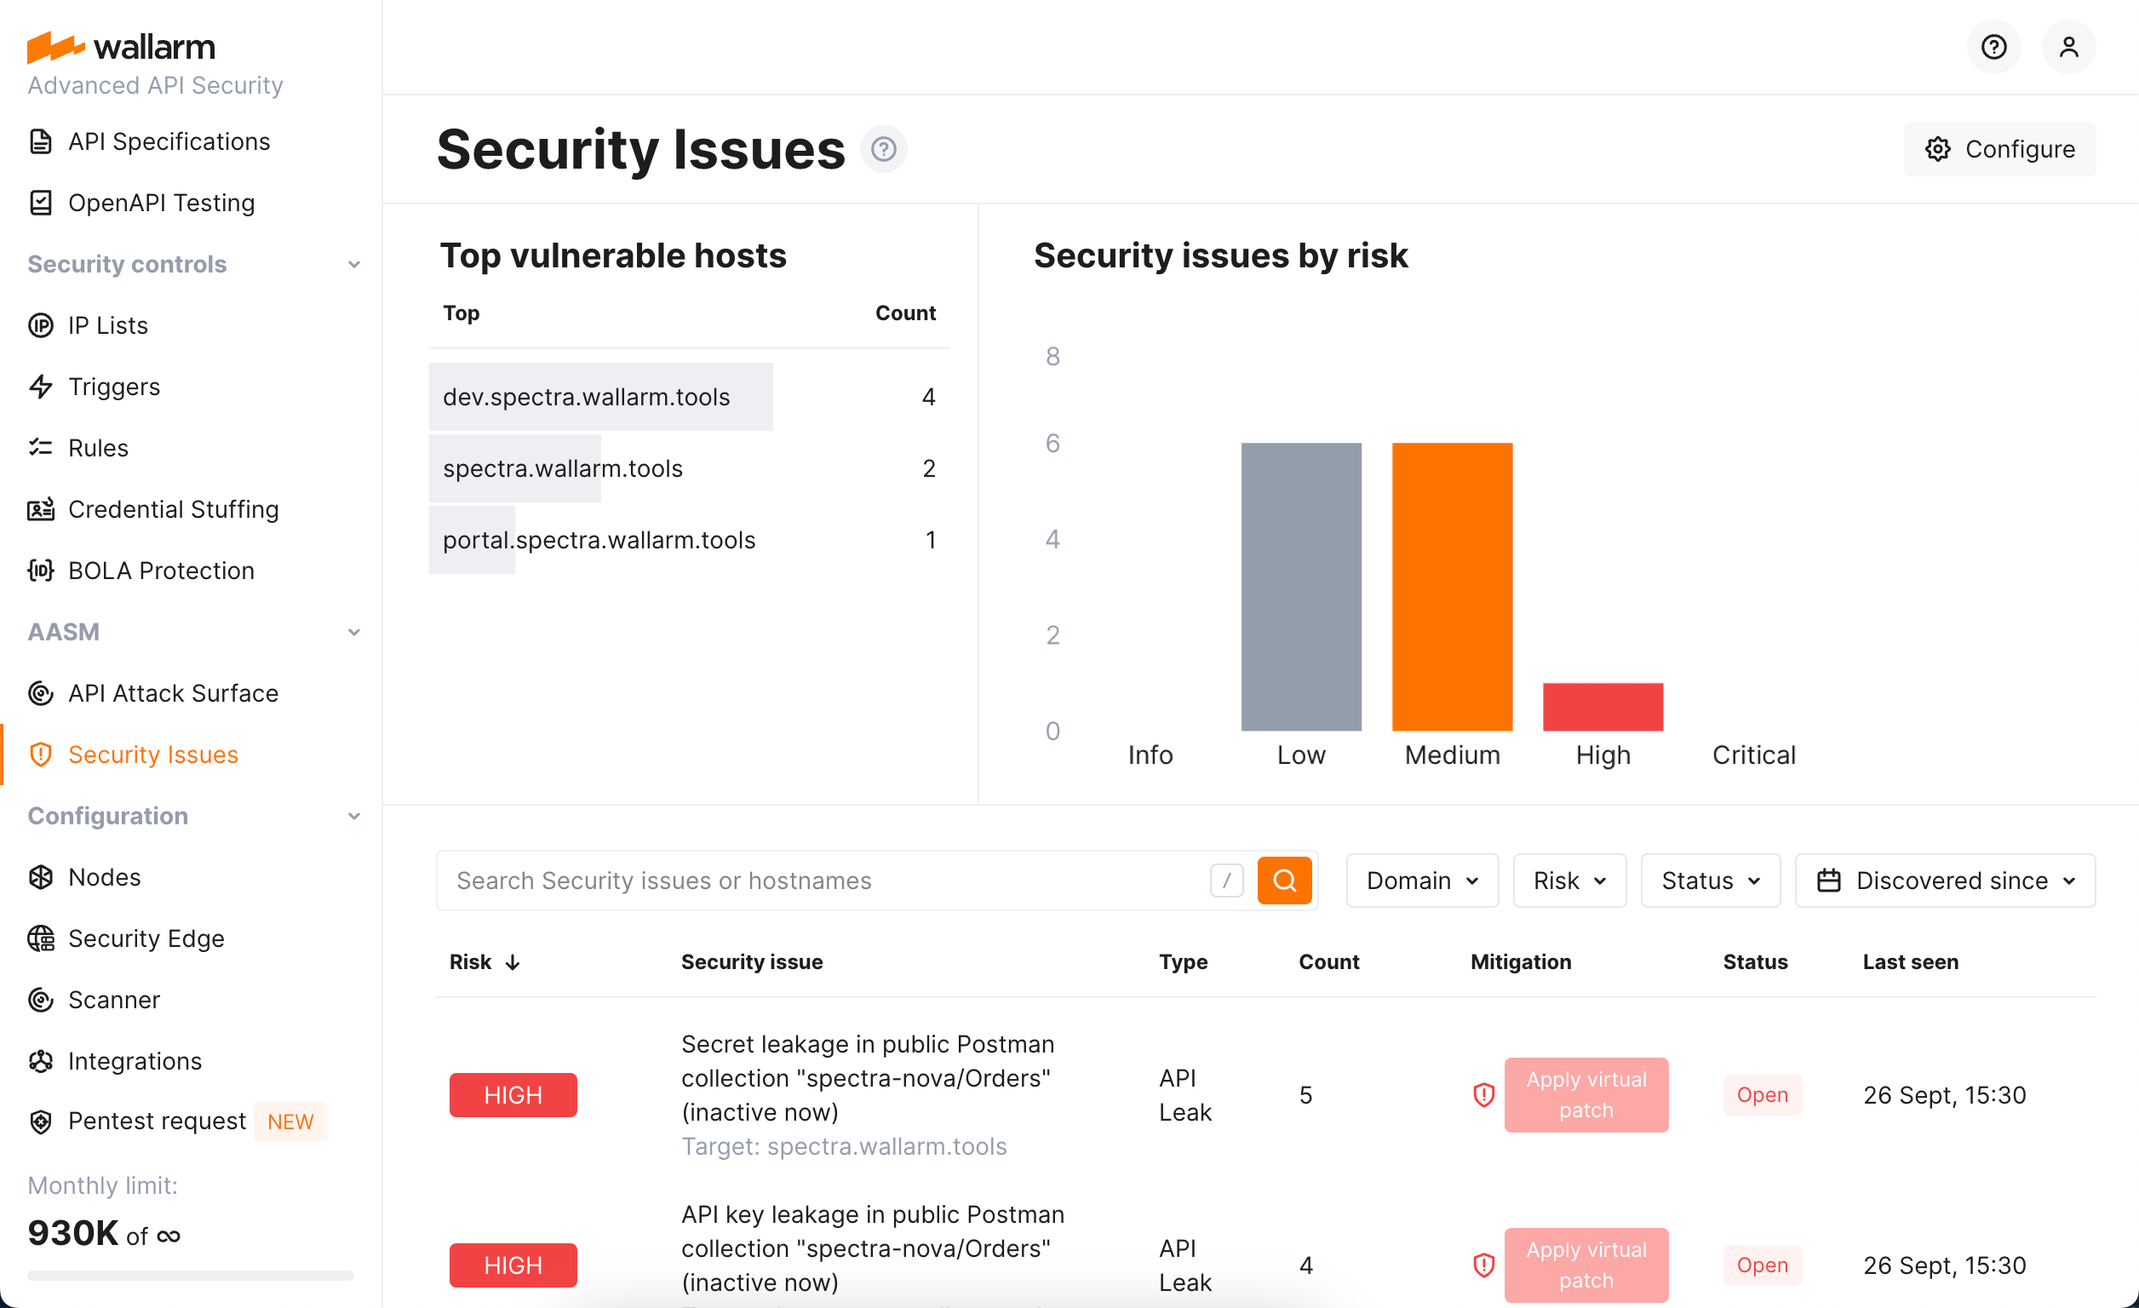
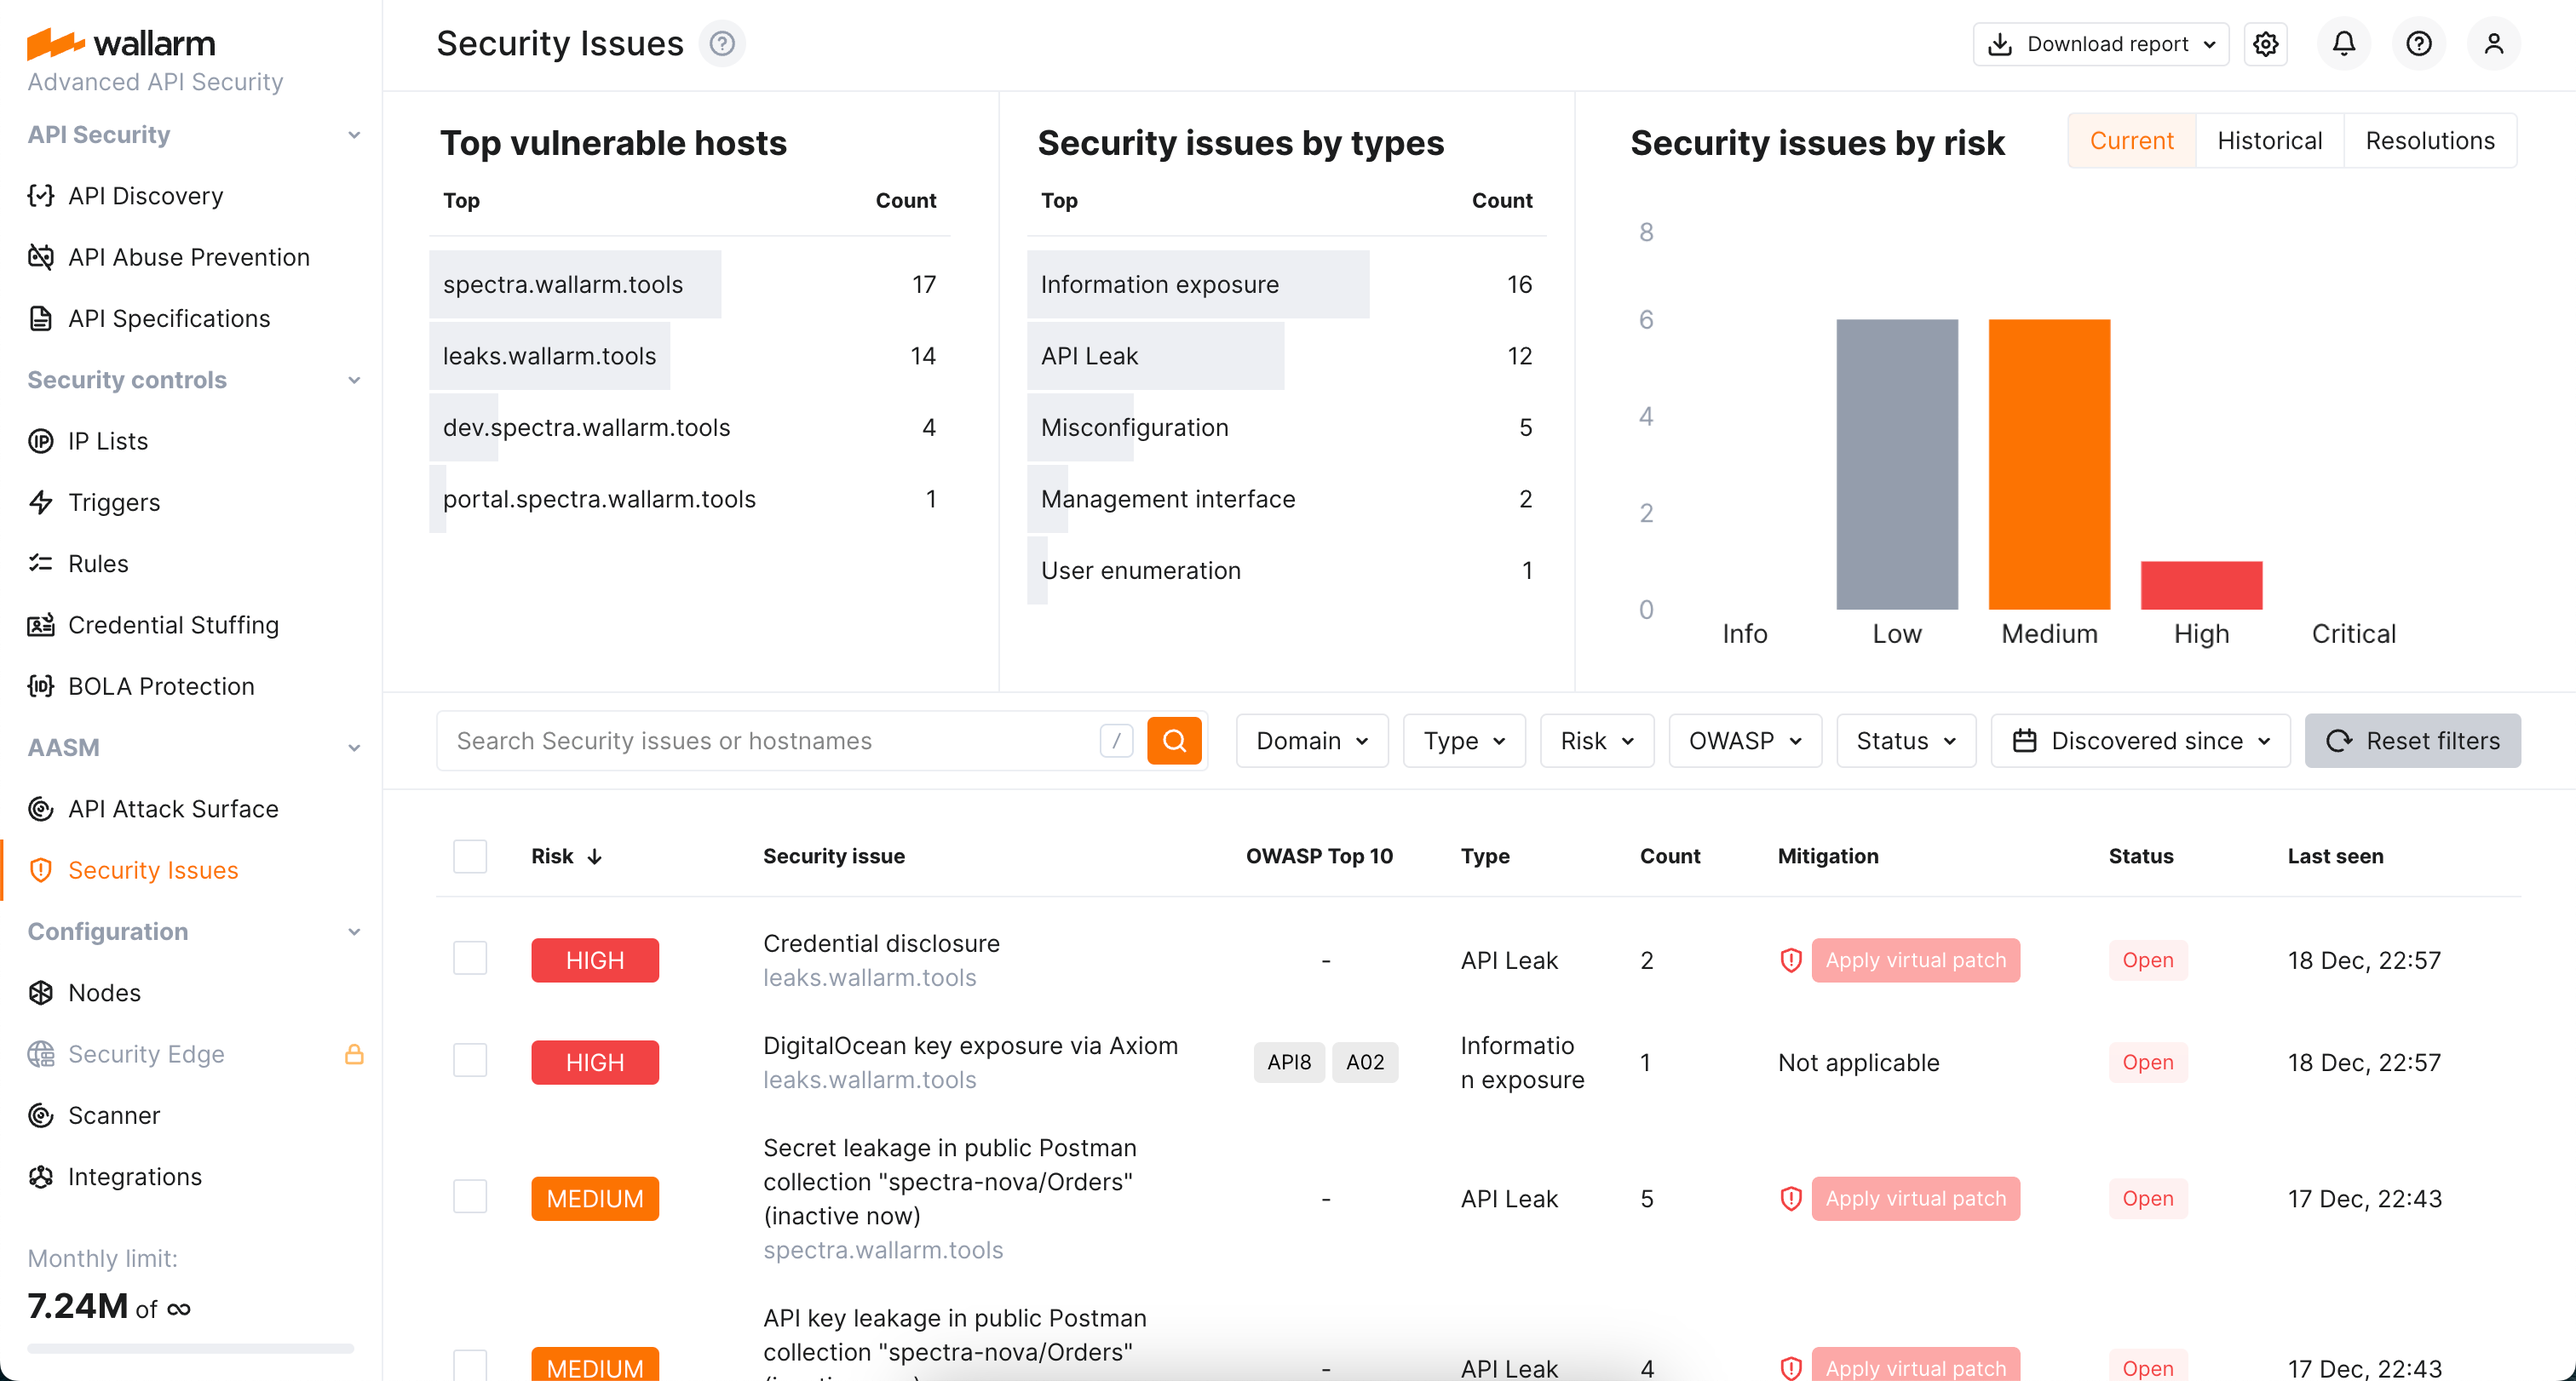
DOCS-2672 (DOCS-2851) Report and historical diagram

diff --git a/docs/latest/api-attack-surface/security-issues.md b/docs/latest/api-attack-surface/security-issues.md
@@ -10,9 +10,11 @@ To explore the security issues found for your external hosts, in Wallarm Console
 
 Here, the detailed information on found issues is presented, including:
 
-* Brief and detailed issue description
-* Risk level evaluation and distribution of security issues by these levels
+* Full filterable list of issues with brief and detailed description of each
 * Top vulnerable hosts list
+* Distribution of security issues by type
+* Risk level evaluation and distribution of security issues by these levels
+* Monthly historical information on detected and resolved issues for the last 6 month
 
 ## List of detected issues
 
@@ -49,6 +51,12 @@ Once a security issue is detected, it obtains the **Open** status meaning some m
 ![Security issues details - Lifecycle controls](../images/api-attack-surface/security-issue-details-lifecycle.png)
 
 You can also re-evaluate and adjust the risk level of the issue.
+
+## Getting report
+
+You can get report on all or filtered security issues in CSV or JSON format using the **Download report** button.
+
+![Security issues details - Lifecycle controls](../images/api-attack-surface/security-issues-report.png)
 
 ## API leaks
 
